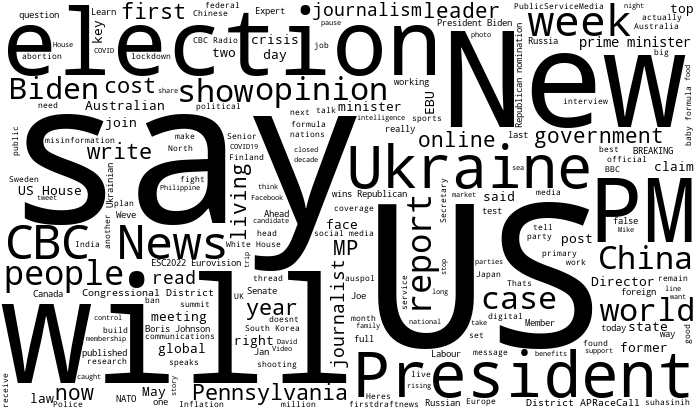
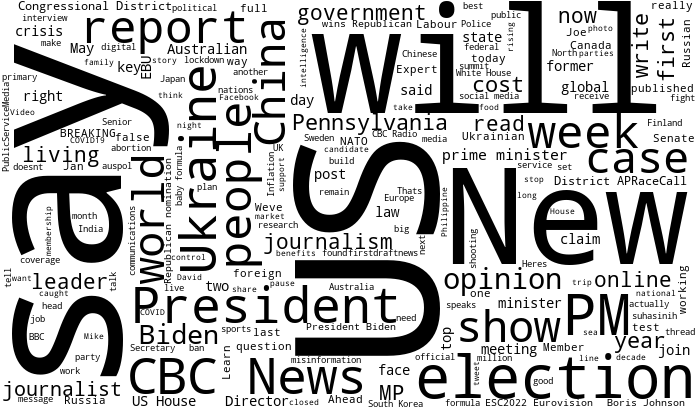
Adding commands

diff --git a/run.py b/run.py
@@ -1,0 +1,125 @@
+import os
+import sys
+import colored
+from colored import stylize
+from core.helpers import * 
+from dotenv import load_dotenv
+load_dotenv()
+
+def list_commands():
+    headers = ['Command', 'Description']
+    print('\n')
+    print('Available Subcommands')
+    print('\n\n')
+
+    commands = [
+        ['words:cloud', 'Creates a wordcloud from latest propaganda tweets.'],
+        ['words:rank', 'Ranks words from latest propaganda tweets.'],
+    ]
+
+    print_tabs(commands, headers, 'simple')
+    print('\n\n')
+
+
+def command_error(required={}, opt=None):
+    if(not (required or opt)):
+        print(stylize('Error: your command did not match any known programs. Closing...', colored.fg('red')))
+        print('\n')
+        return
+
+    if (required):
+        print(stylize('FAILED: Requires arguments: ', colored.fg('red')))
+        for var, rules in required.items():
+            print(stylize('({}) [{}] in position {}'.format(rules['type'], var, rules['pos']), colored.fg('red')))
+        print('\n')
+    if (opt):
+        print(stylize('Optional arguments: ', colored.fg('yellow')))
+        if (isinstance(opt, dict)):
+            for var, typ in opt.items():
+                print(stylize('({}) [{}]'.format(var, typ), colored.fg('yellow')))
+        if (isinstance(opt, list)):
+            for var in opt.items():
+                print(stylize('[{}]'.format(var), colored.fg('yellow')))
+            print('\n')
+
+
+def parse_args(args, required=[], opt=[]):
+    params = {}
+
+    if (required):
+        for req, rules in required.items():
+            if ('=' in args[rules['pos']]):
+                rv = args[rules['pos']].split('=')[1]
+            else:
+                rv = args[rules['pos']]
+
+            params[req] = rv
+
+    if (required and params == {}):
+        command_error()
+    if (opt):
+        for var, rules in opt.items():
+            in_args = [var == arg.split('=')[0] for arg in args]
+
+            if (True in in_args):
+                if (rules['type'] == bool):
+                    if ('--' in var):
+                        var = var.split('--')[1]
+                    if ('=' in var):
+                        argvalue = var.split('=')[1]
+                    else:
+                        argvalue = True
+
+                    params[var] = argvalue
+                    continue
+
+                argvalue = args[in_args.index(True)].split('=')[1]
+
+                if (rules['type'] == int):
+                    if (isinstance(int(argvalue), int)):
+                        params[var] = int(argvalue)
+                        continue
+                    else:
+                        print(stylize(var+' must be of type '+str(rules['type']), colored.fg('red')))
+                        sys.exit()
+
+                params[var] = argvalue
+
+    return params
+
+def words_controller(subroutine, args):
+    if (subroutine == 'cloud'):
+        from labs.word_frequency.wordcloud import main
+        main()
+
+    if (subroutine == 'rank'):
+        from labs.word_frequency.word_ranks import main
+        main()
+
+
+def main():
+    os.environ.setdefault('DJANGO_SETTINGS_MODULE', 'lab.settings')
+    sys.argv.pop(0)
+
+    args = [arg.strip() for arg in sys.argv]
+
+    if (args[0] in ['h', '-h', 'help', '--help', 'ls', 'list',]):
+        list_commands()
+        return
+
+    if (':' in args[0]):
+        command = args.pop(0)
+        program = command.split(':')[0] + '_controller'
+        subroutine = command.split(':')[1]
+
+        globals()[program](subroutine, args)
+        return
+    else:
+        program = args.pop(0) + '_controller'
+
+        globals()[program](args)
+        return
+
+
+if __name__ == '__main__':
+    main()

diff --git a/labs/word_frequency/wordcloud.py b/labs/word_frequency/wordcloud.py
@@ -1,8 +1,9 @@
 from core.helpers import *
-from core.database.jsondb import JsonDB
 import datetime
 import string
 from ..propaganda.tweets import api_fetch_tweets, get_tweets
+import numpy as np
+from PIL import Image
 from wordcloud import WordCloud, STOPWORDS
 
 # python -m labs.word_frequency.wordcloud
@@ -14,7 +15,7 @@ def stripped_string(single_string):
     return string_final
 
 def create_wordcloud(text, output):
-    mask = np.array(Image.open(path.join(get_project_path(), 'core', 'cloud.png')))
+    mask = np.array(Image.open(os.path.join(get_project_path(), 'core', 'cloud.png')))
 
     stopwords = set(STOPWORDS)
 
@@ -28,7 +29,8 @@ def create_wordcloud(text, output):
     wc.generate(text)
 
     # save wordcloud
-    wc.to_file(path.join(get_project_path(), 'out', 'clouds', output))
+    wc.to_file(os.path.join(get_project_path(), 'out', 'clouds', output))
+    print('Wordcloud created', output)
 
 
 def main():
@@ -39,6 +41,3 @@ def main():
     # timestamp = str(datetime.datetime.now().timestamp()).replace('.', '_')
     timestamp = '{:%Y_%b_%d}'.format(datetime.datetime.now())
     create_wordcloud(stripped, output=f"news_cloud_{timestamp}.png")
-
-
-main()

diff --git a/labs/word_frequency/word_ranks.py b/labs/word_frequency/word_ranks.py
@@ -27,11 +27,13 @@ def word_analyzer(lexicon):
     print(json.dumps(frequency, indent=1))
 
 
-lexicon = []
-full_text = ""
-latest_string = get_latest_file('data/strings/*')
+def main():
+    lexicon = []
+    full_text = ""
+    latest_string = get_latest_file('data/strings/*')
 
-if (latest_string):
-    txt = open(latest_string, 'r').read()
-    lexicon.extend(txt.split())  # converting string into list
-    word_analyzer(lexicon)
+    if (latest_string):
+        txt = open(latest_string, 'r').read()
+        lexicon.extend(txt.split())  # converting string into list
+        word_analyzer(lexicon)
+    

diff --git a/core/helpers.py b/core/helpers.py
@@ -4,10 +4,9 @@ import zipfile
 import re
 import json
 import glob
-from os import path
 
-def read_json_file(path):
-    txtfile = open(path, "r")
+def read_json_file(filepath):
+    txtfile = open(filepath, "r")
     return json.loads(txtfile.read())
 
 
